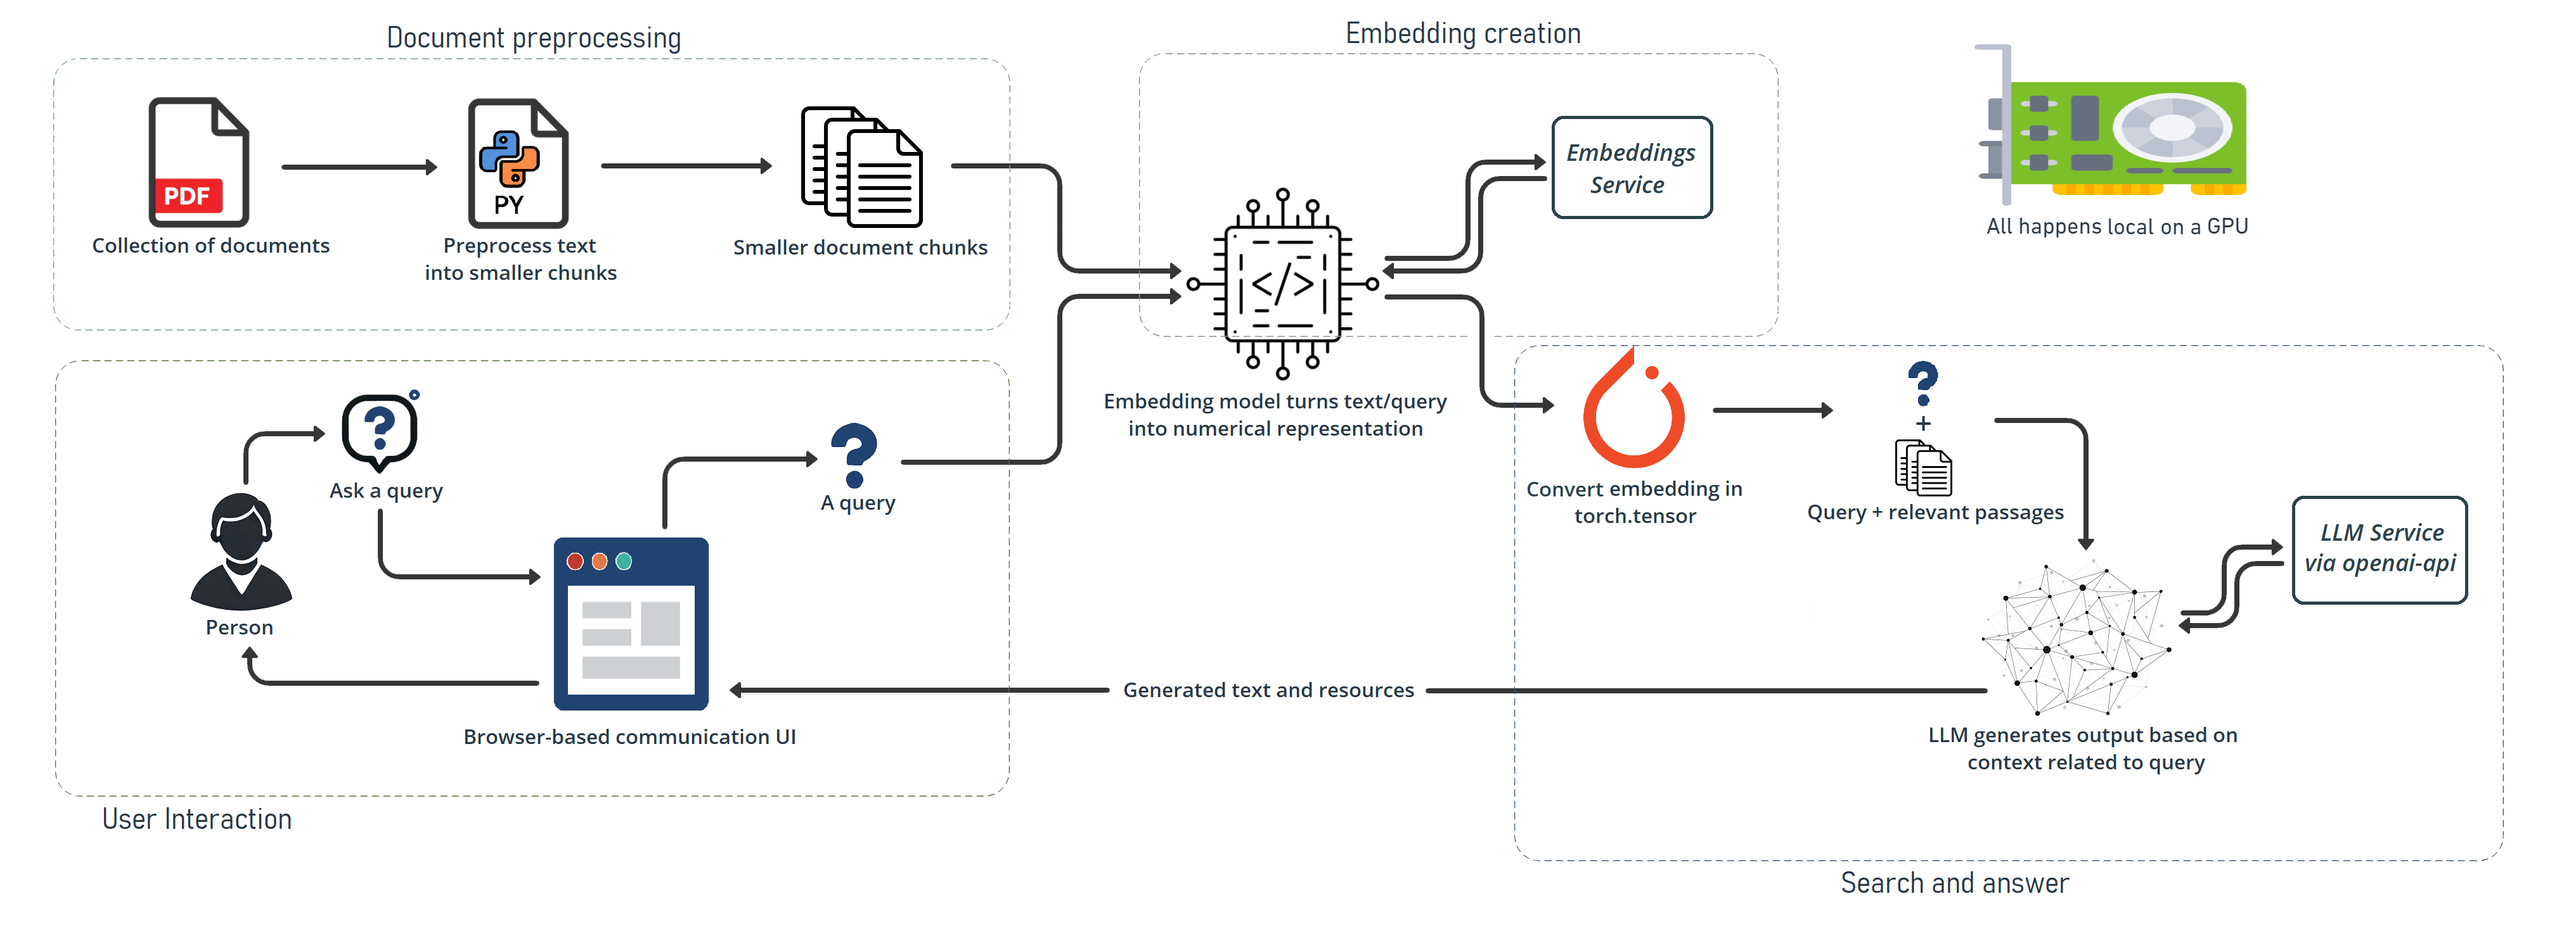
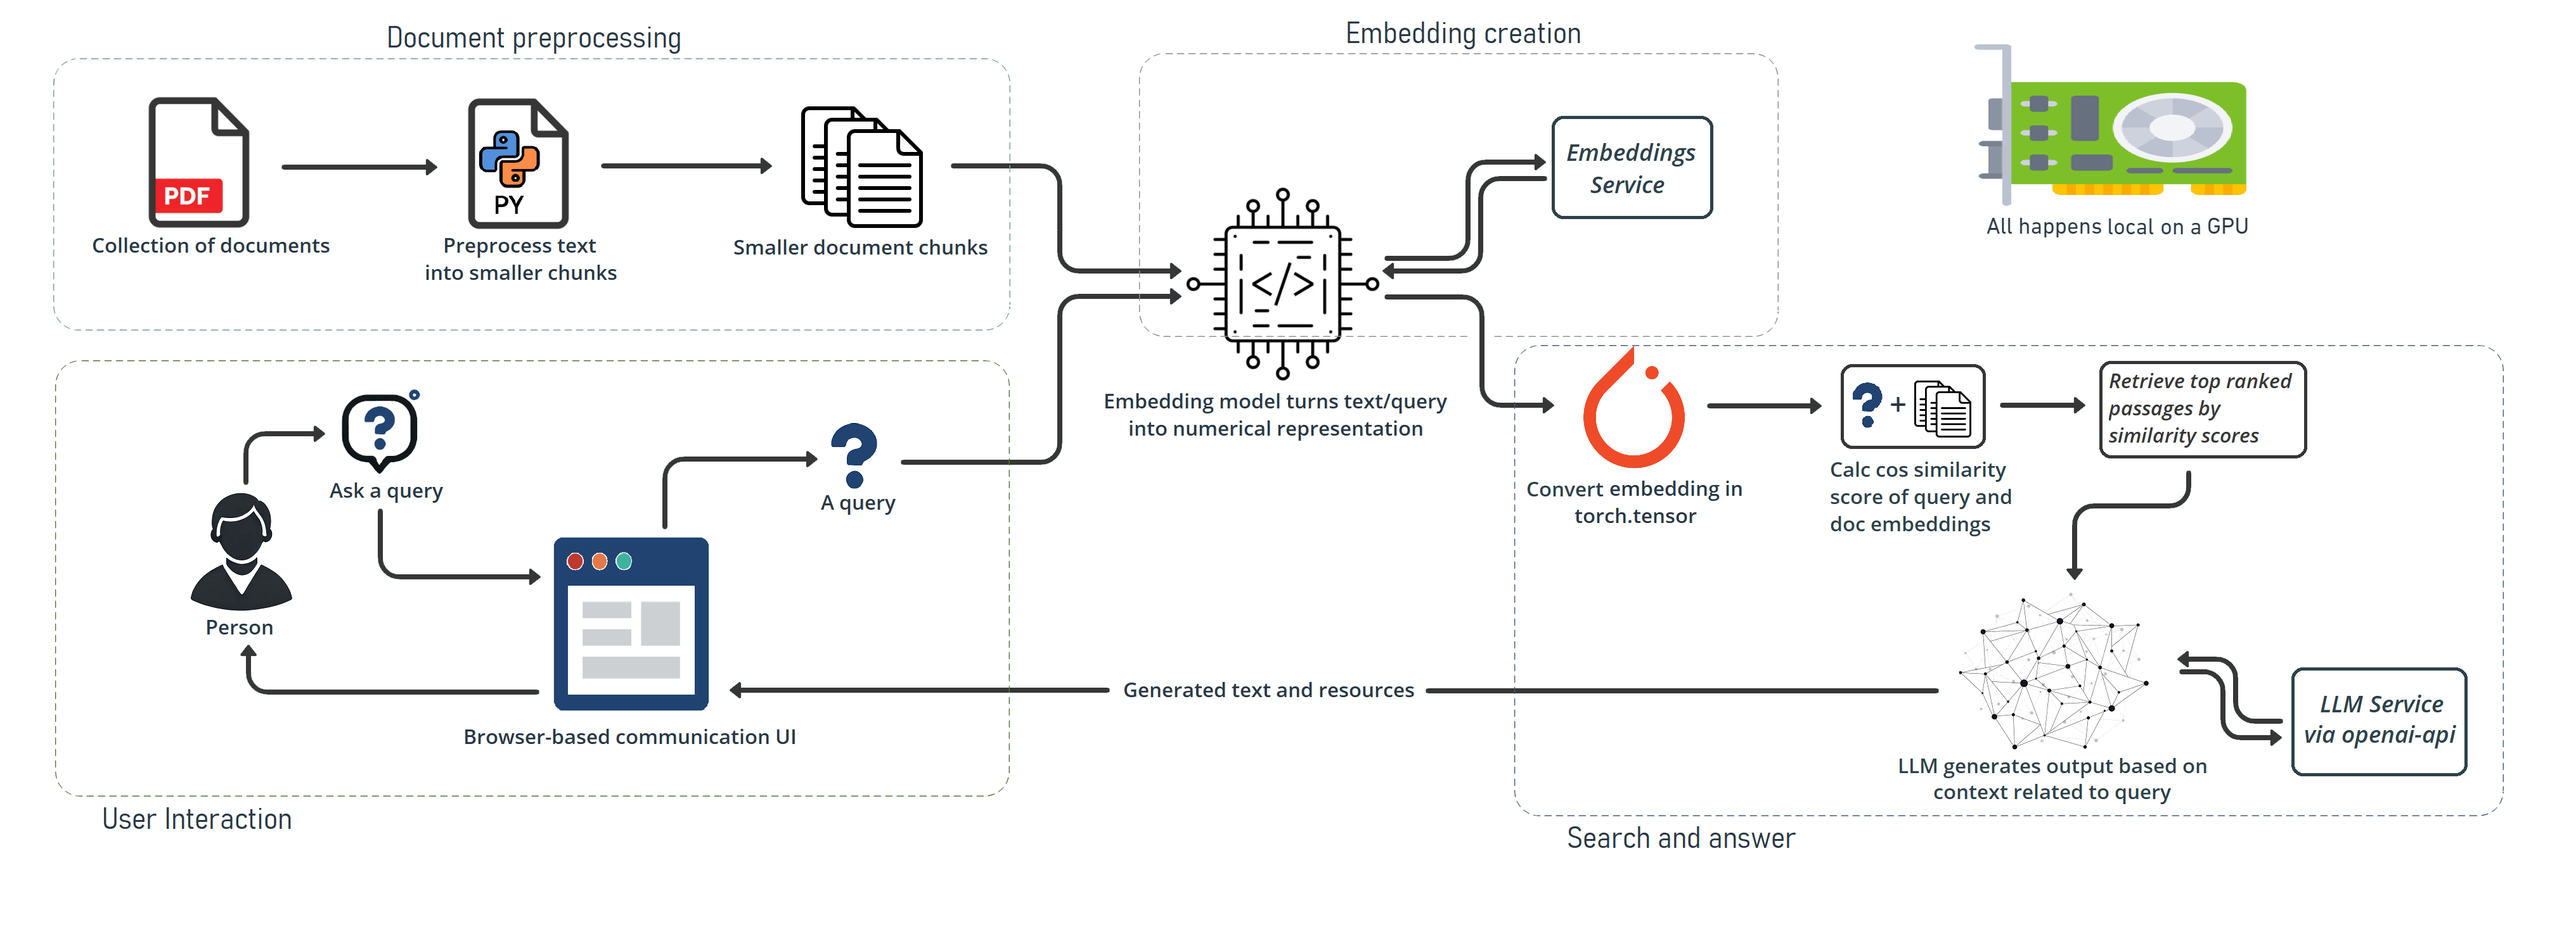
update rag_chart.png and add logging

diff --git a/app.py b/app.py
@@ -3,13 +3,15 @@ import json
 import requests
 import traceback
 import torch
+import logging
 from flask import Flask, render_template, request, jsonify
 from sentence_transformers import util
 from config import Config
 from utils import (
     text_formatter,
     preprocess_and_chunk,
-    load_or_generate_embeddings
+    load_or_generate_embeddings,
+    make_api_request
 )
 
 
@@ -17,6 +19,18 @@ from utils import (
 # Initialize Flask app
 app = Flask(__name__)
 
+
+import logging
+
+logging.basicConfig(
+    level=logging.DEBUG,
+    format="%(asctime)s - %(name)s - %(levelname)s - %(message)s",
+    handlers=[
+        logging.FileHandler("chatbot.log"),
+        logging.StreamHandler()
+    ]
+)
+logger = logging.getLogger(__name__)
 
 if not os.path.exists("pages_and_chunks.json"):
     pages_and_chunks = preprocess_and_chunk(Config.PDF_PATH)
@@ -29,41 +43,67 @@ else:
 text_chunks = [chunk["sentence_chunk"] for chunk in pages_and_chunks]
 embeddings = load_or_generate_embeddings(text_chunks)
 
-def retrieve_relevant_resources(query: str, n_resources_to_return: int = 5):
-    """Finds relevant text sections based on the query."""
+def retrieve_relevant_resources(query: str, n_resources_to_return: int = 5) -> list[tuple[dict, float]]:
+    """
+    Finds relevant text sections based on the query.
+
+    Args:
+        query (str): The user's query.
+        n_resources_to_return (int): Number of results to return. Defaults to 5.
+
+    Returns:
+        list[tuple[dict, float]]: List of tuples containing the text chunk and its relevance score.
+
+    Raises:
+        RuntimeError: If there is an error in the API request or data processing.
+    """
+    # Define the payload for the embedding API request
     payload = {"input": query, "model": Config.EMBEDDING_MODEL_NAME}
-    response = requests.post(Config.LM_STUDIO_EMBEDDING_API_URL, json=payload)
-    
-    if response.status_code != 200:
-        raise RuntimeError(f"Error in embedding request: {response.status_code}, {response.text}")
-    
-    # Debugging: Print the entire API response
-    api_response = response.json()
-    print("API Response (Query):", api_response)
-    
+
+    # Use the centralized API request function
+    try:
+        api_response = make_api_request(
+            url=Config.LM_STUDIO_EMBEDDING_API_URL,
+            payload=payload,
+            error_msg="Embedding API Error"
+        )
+    except RuntimeError as e:
+        logger.error(f"Failed to retrieve embeddings: {str(e)}")
+        raise
+
+    # Debugging: Log the API response
+    logger.debug(f"API Response (Query): {api_response}")
+
     # Extract the embedding data
     embedding_data = api_response.get("data", [])
-    print("Embedding Data (Query):", embedding_data)
-    
-    # Check if the embedding data is correct
+    logger.debug(f"Embedding Data (Query): {embedding_data}")
+
+    # Validate the embedding data
     if not embedding_data or not isinstance(embedding_data, list):
+        logger.error("Unexpected format of embedding data.")
         raise RuntimeError("Unexpected format of embedding data.")
-    
+
     # Extract the embedding vectors
-    query_embeddings = [item["embedding"] for item in embedding_data if isinstance(item, dict) and "embedding" in item]
+    query_embeddings = [
+        item["embedding"] for item in embedding_data
+        if isinstance(item, dict) and "embedding" in item
+    ]
     if not query_embeddings:
+        logger.error("No embedding data found in API response.")
         raise RuntimeError("No embedding data found in API response.")
-    
+
     # Convert the embedding data into a tensor
     try:
         query_embedding = torch.tensor(query_embeddings).squeeze()
     except Exception as e:
-        print("Error converting embedding data to tensor:", e)
+        logger.error(f"Error converting embedding data to tensor: {e}")
         raise RuntimeError(f"Error converting embedding data to tensor: {e}")
-    
+
     # Calculate the similarities
     dot_scores = util.dot_score(query_embedding, embeddings)[0]
     scores, indices = torch.topk(dot_scores, k=n_resources_to_return)
+
+    # Return the top results with their scores
     return [(pages_and_chunks[i], float(scores[idx])) for idx, i in enumerate(indices)]
 
 def format_combined_summary_and_sources(results):

diff --git a/utils.py b/utils.py
@@ -6,6 +6,7 @@ from tqdm import tqdm
 import fitz  # PyMuPDF
 import spacy
 from config import Config
+import logging
 
 # Initialize spaCy for sentence splitting
 nlp = spacy.blank("en")
@@ -70,3 +71,12 @@ def load_or_generate_embeddings(text_chunks, batch_size=32):
     embeddings_tensor = torch.tensor(embeddings)
     torch.save(embeddings_tensor, "embeddings.pt")
     return embeddings_tensor
+
+def make_api_request(url: str, payload: dict, error_msg: str) -> dict:
+    try:
+        response = requests.post(url, json=payload, timeout=30)
+        response.raise_for_status()  # Raises an HTTPError for bad responses
+        return response.json()
+    except requests.exceptions.RequestException as e:
+        logging.error(f"{error_msg}: {str(e)}")
+        raise RuntimeError(f"{error_msg}: {str(e)}")
